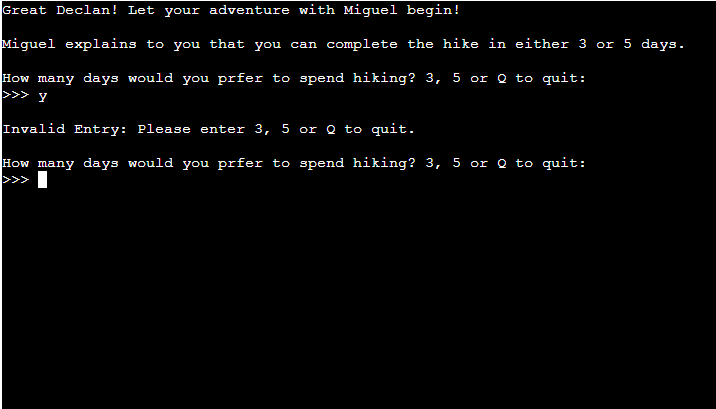
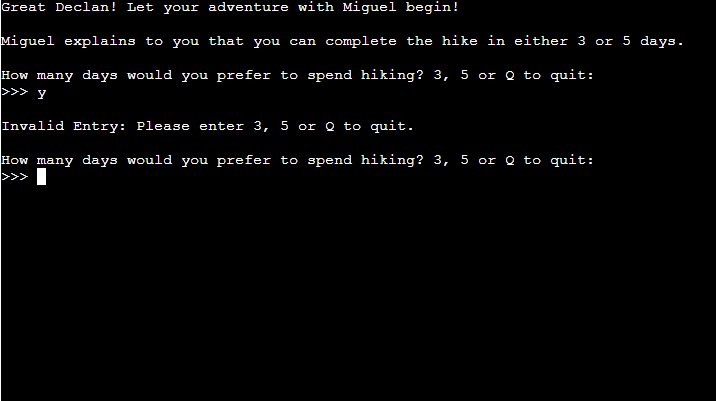
Update testing user stories section

diff --git a/README.md b/README.md
@@ -123,6 +123,10 @@ the start of the game. Opting to not play again quits the game.
 - Heroku
     - Used to deploy the appliaction.
 - [PEP8](https://pep8ci.herokuapp.com/) used to test the code for errors.
+- Miro
+    - Used to create the mind map.
+- ASCII
+    - Used patorjk.com, a text to ASCII art generator, for the ASCII art.
 ## Testing
 ### PEP8 Python Validator
 #### Python
@@ -130,19 +134,61 @@ the start of the game. Opting to not play again quits the game.
     - All clear, no errors found  
     ![](/docs/testing/pep8.png)  
 ### Manual
-- I spellchecked the website and the readme using [Online Spellcheck](https://www.online-spellcheck.com/). I also used
-[Webpage Spell-Check](https://chrome.google.com/webstore/detail/webpage-spell-check/mgdhaoimpabdhmacaclbbjddhngchjik), a google chrome extension.
+- I spellchecked the appliaction and the readme using [Online Spellcheck](https://www.online-spellcheck.com/). I also used
+[Webpage Spell-Check](https://chrome.google.com/webstore/detail/webpage-spell-check/mgdhaoimpabdhmacaclbbjddhngchjik),
+a google chrome extension.
 - I used [Grammarly](https://www.grammarly.com/) to check for grammatical errors.
 
 ### Testing User Stories from User Experience (UX) Section
 #### First Time Visitor Goals
- 
+- I want know what the application is about on first viewing.
+    - On the main landing screen there is short introduction to what the application is, a game based on hiking to Machu Picchu.  
+    ![](/docs/screenshots/intro_txt.png)  
+- I want clear descriptions as to what my input options are at each point in the game.
+    - At each point in the game where there is an opportunity to input a value there is a description as to what the options are.  
+    ![](/docs/screenshots/options_1.png)  
+    ![](/docs/screenshots/options_2.png)  
+    ![](/docs/screenshots/options_3.png)  
+    ![](/docs/screenshots/options_4.png)  
+    ![](/docs/screenshots/options_5.png)  
+- I want to know if I have entered in the wrong value in the input area.
+    - If an invalid value is input by the user, a message appears explaining what values are accepted as valid. This occurs at each
+    point that there is an opportunity to input a value.  
+    ![](/docs/screenshots/invalid_entry_msg_1.png)  
+    ![](/docs/screenshots/invalid_entry_msg_2.png)  
+    ![](/docs/screenshots/invalid_entry_msg_3.png)  
+- I want to tailor the game to include my name.
+    - There is an opportunity at the beginning of the game to enter your name.  
+    ![](/docs/screenshots/name.png)  
+    - This is stored and used at various points along the game to personalise the game experience.  
+    ![](/docs/screenshots/name_personalised.png)  
+- I want the text to be laid out in such a way that improves readability.
+    - The screen is cleared at frequent points in the game. There is sufficient spacing between lines of text and messages that appear
+    throughout the game as seen in the screenshots provided elsewhere within this section.
+- I want to know if the game has ended and if I have won or lost.
+    - You are shown the art displaying "you win" or "you lose" with a short message underneath it.  
+    ![](/docs/screenshots/you_win_msg.png)  
+    ![](/docs/screenshots/you_lose_msg.png)  
+- At the puzzle point of the game I want to know what guesses I have made so far and how many attempts I have left.
+    - Each time you input a valid guess which is not correct it is stored and the guesses you have made so far are displayed to you
+    before you attempt to guess again. The number of attempts left is also displayed.  
+    ![](/docs/screenshots/puzzle_attempts_log.png)
+- I want to be able to quit the game at any point.
+    - At each opportunity to input a value you are given the option of entering "Q" to quit the game (with the exception of the name
+    input). This can be seen in the screenshots provided elsewhere within this section.
 #### Returning Visitor Goals
-  
+- I want an option to be able to play the game again when I reach the end.
+    - There is an option to play again when the user reaches the end of the game.  
+    ![](/docs/screenshots/options_5.png)  
+- I want variety in the game so that there are different outcomes based on choosing different options.
+    - Each time a user is presented with a question in the game, the answer chosen by the user results in a different outcome.
 #### Frequent Visitor Goals
-
+- I want variety in the puzzle games that are presented (future implementation).
+    - This is a future implementation whereby I would like to add a little more complexity to the game. I would add more puzzles,
+    which would aim to encourage the user to visit the application frequently.  
 ### Bugs
 #### Known
+- No known bugs.
 #### Solved
 - When the user opted to play the game again, the introduction text would load but the game wouldn't run as expected. This is
 because the username varaible is not an empty string anymore once the game is played once. To address this I introduced a pass
@@ -197,6 +243,8 @@ The steps below describe how to fork or clone the repository if desired.
 ### Code Used
 - The code to clear the terminal was obtained from
 [stackoverflow](https://stackoverflow.com/questions/2084508/clear-terminal-in-python).
+- The ASCII art code used was generated on
+[https://patorjk.com/software/taag/#p=display&f=Graffiti&t=Type%20Something%20](patorjk.com).
 ### Resources
 - To get an overview of how to code a python text-based adventure game referred to the following tutorials:
     - Starting to code a Python Text Adventure Game on YouTube by
